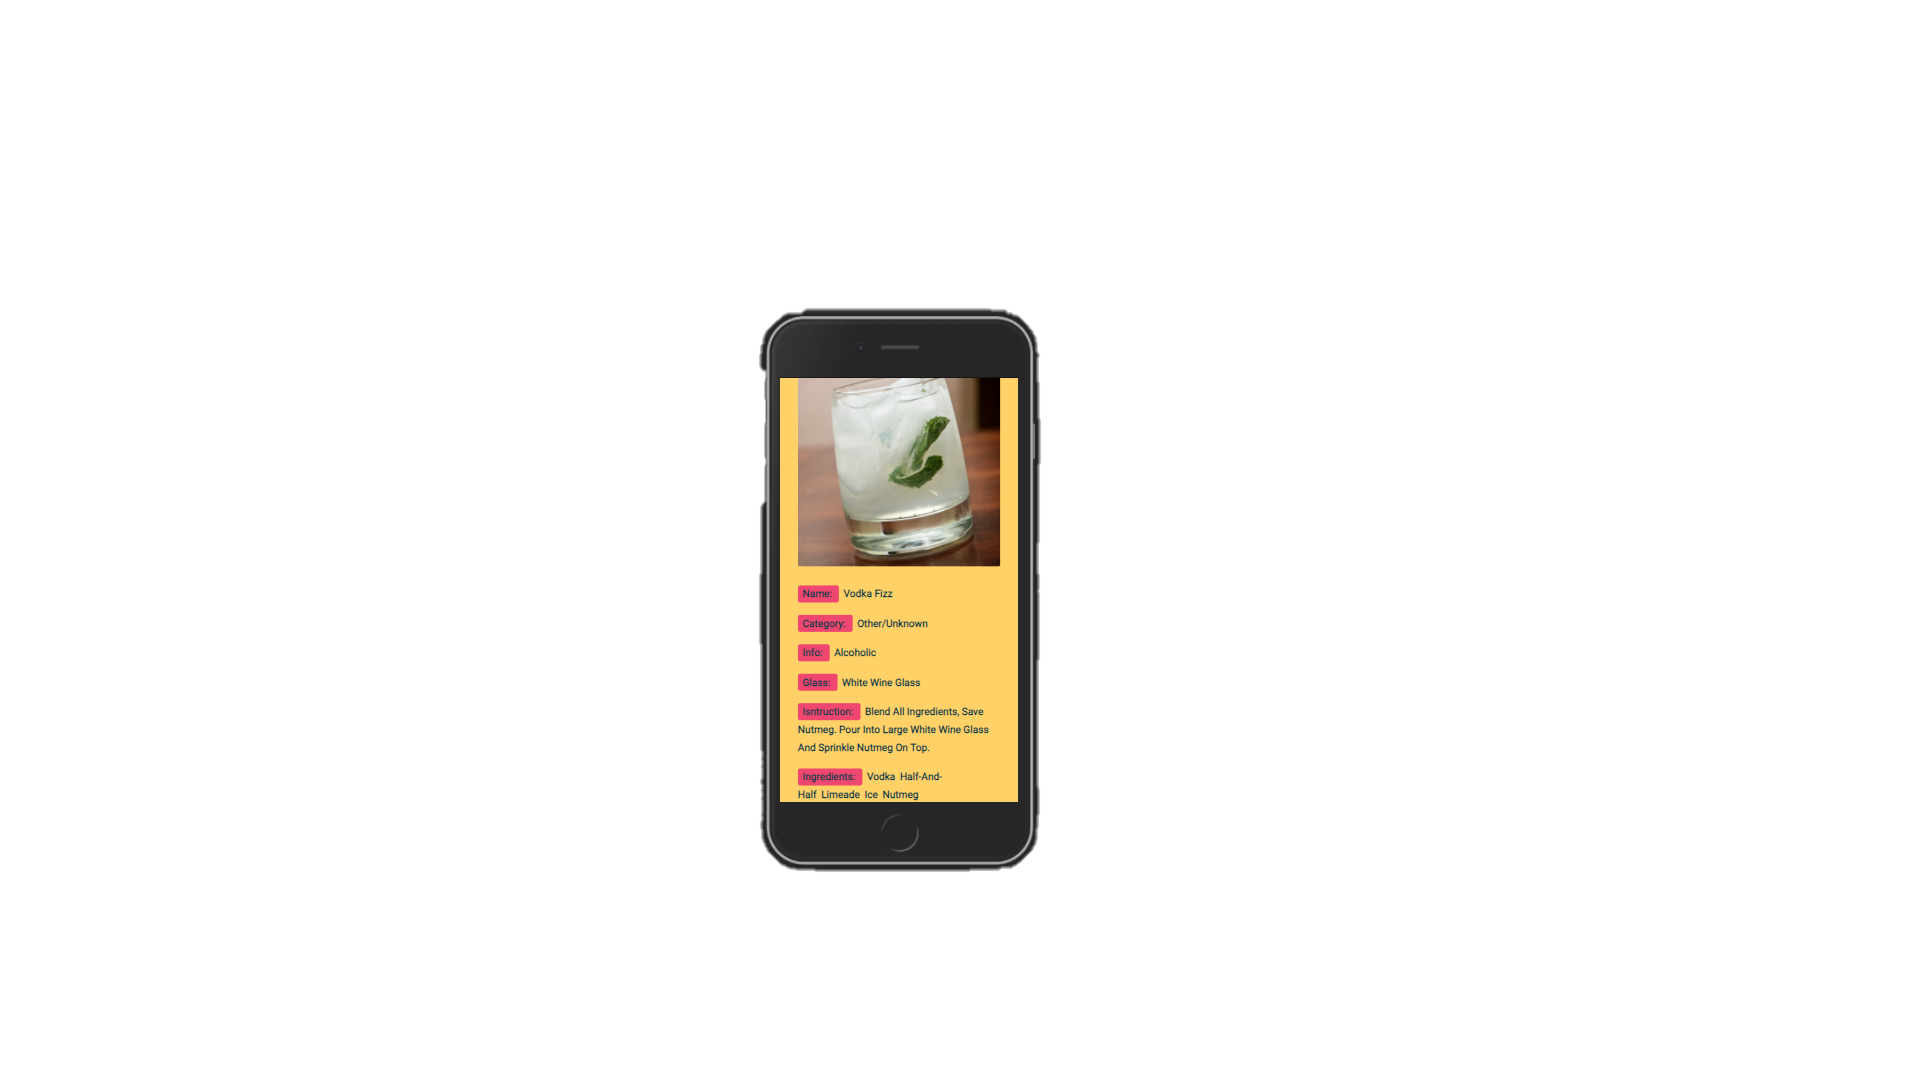
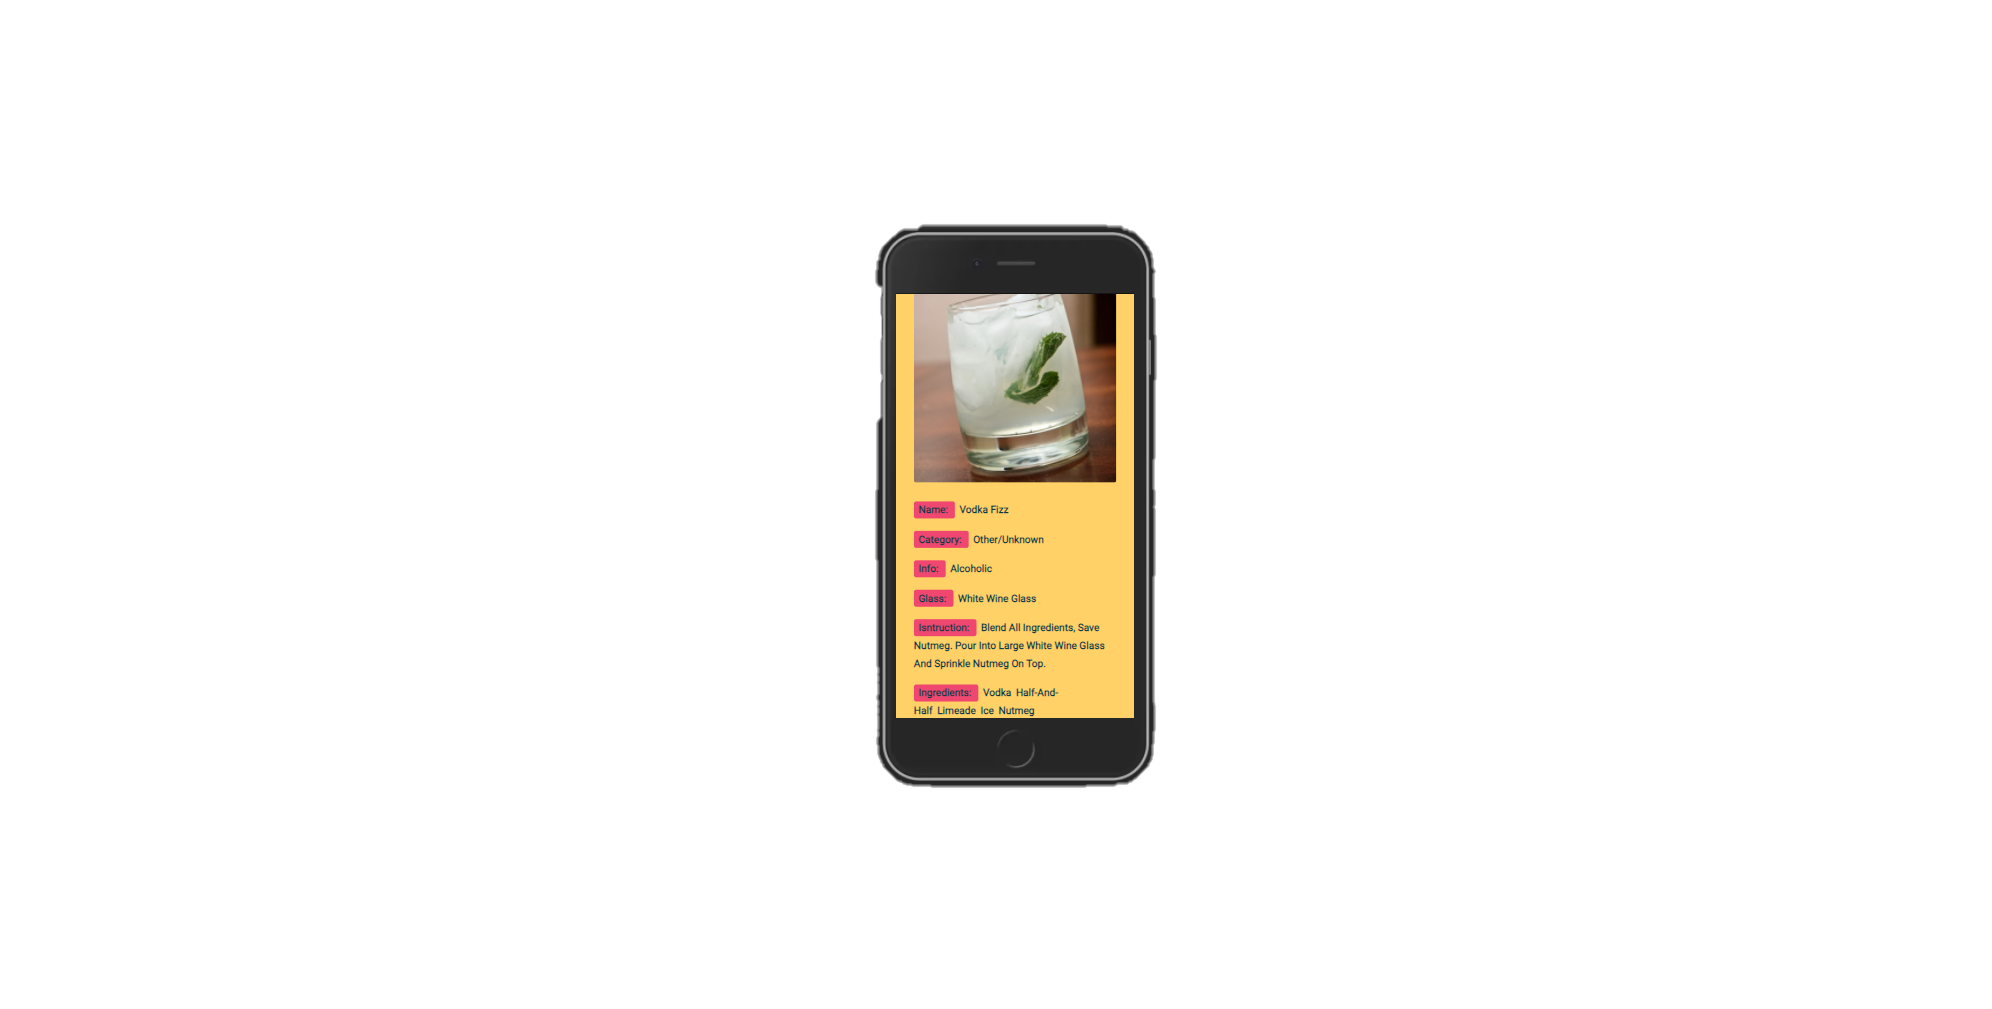
changed images size

Changed region(s): [[0.375, 0.2151, 0.5938, 0.8295]]

diff --git a/src/components/header.js b/src/components/header.js
@@ -1,6 +1,7 @@
 import React from 'react'
 import sun from "../assets/sun.png"
 import clouds from "../assets/clouds.png"
+import {Link} from "react-router-dom"
 
 const header = () => {
     return (
@@ -13,9 +14,9 @@ const header = () => {
               <span className="banner word-1">Front-end</span>
               <span className="banner word-2">
                 React{" "}
-                <a className="click" href="#sendMessage">
+                <Link className="click" to="/contacts">
                   Hire me!
-                </a>
+                </Link>
               </span>
               <span className="banner word-3">JavaScript</span>
             </h1>
